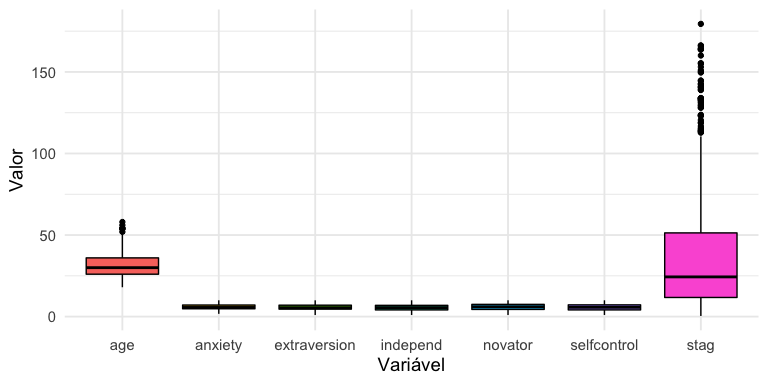
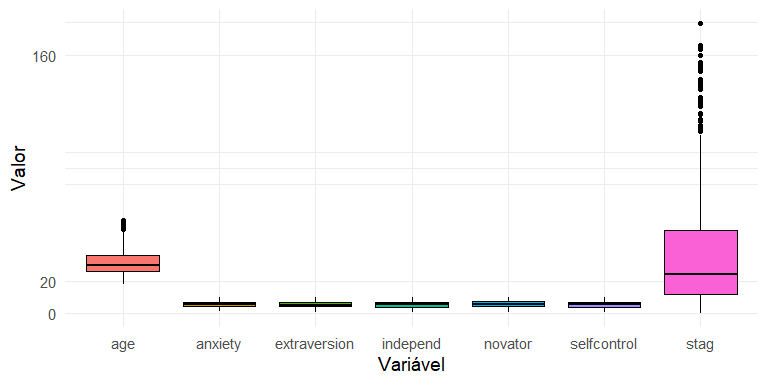
AAAAAAAAAAAAAAAAAAAAAA

diff --git a/turnover_rodrigo/rmd_arquivo.md b/turnover_rodrigo/rmd_arquivo.md
@@ -832,22 +832,22 @@ dados %>%
 
     ## Rows: 1,129
     ## Columns: 16
-    ## $ stag         <dbl> 7.030801, 22.965092, 15.934292, 15.934292, 8.410678, 8.9…
-    ## $ event        <int> 1, 1, 1, 1, 1, 1, 1, 1, 1, 1, 1, 1, 1, 1, 1, 1, 1, 1, 1,…
-    ## $ gender       <chr> "m", "m", "f", "f", "m", "f", "f", "f", "f", "f", "f", "…
-    ## $ age          <dbl> 35, 33, 35, 35, 32, 42, 42, 28, 29, 30, 40, 23, 22, 24, …
-    ## $ industry     <chr> "Banks", "Banks", "PowerGeneration", "PowerGeneration", …
-    ## $ profession   <chr> "HR", "HR", "HR", "HR", "Commercial", "HR", "HR", "HR", …
-    ## $ traffic      <chr> "rabrecNErab", "empjs", "rabrecNErab", "rabrecNErab", "y…
-    ## $ coach        <chr> "no", "no", "no", "no", "yes", "yes", "yes", "no", "no",…
-    ## $ head_gender  <chr> "f", "m", "m", "m", "f", "m", "m", "m", "f", "m", "m", "…
-    ## $ greywage     <chr> "white", "white", "white", "white", "white", "white", "w…
-    ## $ way          <chr> "bus", "bus", "bus", "bus", "bus", "bus", "bus", "bus", …
-    ## $ extraversion <dbl> 6.2, 6.2, 6.2, 5.4, 3.0, 6.2, 6.2, 3.8, 8.6, 5.4, 8.6, 3…
-    ## $ independ     <dbl> 4.1, 4.1, 6.2, 7.6, 4.1, 6.2, 6.2, 5.5, 6.9, 5.5, 4.1, 6…
-    ## $ selfcontrol  <dbl> 5.7, 5.7, 2.6, 4.9, 8.0, 4.1, 4.1, 8.0, 2.6, 3.3, 1.8, 4…
-    ## $ anxiety      <dbl> 7.1, 7.1, 4.8, 2.5, 7.1, 5.6, 5.6, 4.0, 4.0, 7.9, 7.1, 4…
-    ## $ novator      <dbl> 8.3, 8.3, 8.3, 6.7, 3.7, 6.7, 6.7, 4.4, 7.5, 8.3, 6.7, 7…
+    ## $ stag         <dbl> 7.030801, 22.965092, 15.934292, 15.934292, 8.410678, 8...
+    ## $ event        <int> 1, 1, 1, 1, 1, 1, 1, 1, 1, 1, 1, 1, 1, 1, 1, 1, 1, 1, ...
+    ## $ gender       <chr> "m", "m", "f", "f", "m", "f", "f", "f", "f", "f", "f",...
+    ## $ age          <dbl> 35, 33, 35, 35, 32, 42, 42, 28, 29, 30, 40, 23, 22, 24...
+    ## $ industry     <chr> "Banks", "Banks", "PowerGeneration", "PowerGeneration"...
+    ## $ profession   <chr> "HR", "HR", "HR", "HR", "Commercial", "HR", "HR", "HR"...
+    ## $ traffic      <chr> "rabrecNErab", "empjs", "rabrecNErab", "rabrecNErab", ...
+    ## $ coach        <chr> "no", "no", "no", "no", "yes", "yes", "yes", "no", "no...
+    ## $ head_gender  <chr> "f", "m", "m", "m", "f", "m", "m", "m", "f", "m", "m",...
+    ## $ greywage     <chr> "white", "white", "white", "white", "white", "white", ...
+    ## $ way          <chr> "bus", "bus", "bus", "bus", "bus", "bus", "bus", "bus"...
+    ## $ extraversion <dbl> 6.2, 6.2, 6.2, 5.4, 3.0, 6.2, 6.2, 3.8, 8.6, 5.4, 8.6,...
+    ## $ independ     <dbl> 4.1, 4.1, 6.2, 7.6, 4.1, 6.2, 6.2, 5.5, 6.9, 5.5, 4.1,...
+    ## $ selfcontrol  <dbl> 5.7, 5.7, 2.6, 4.9, 8.0, 4.1, 4.1, 8.0, 2.6, 3.3, 1.8,...
+    ## $ anxiety      <dbl> 7.1, 7.1, 4.8, 2.5, 7.1, 5.6, 5.6, 4.0, 4.0, 7.9, 7.1,...
+    ## $ novator      <dbl> 8.3, 8.3, 8.3, 6.7, 3.7, 6.7, 6.7, 4.4, 7.5, 8.3, 6.7,...
 
 ## 5\. EDA
 
@@ -880,6 +880,7 @@ dados %>%
   ggplot(data = ., aes(x = variavel, y = valor, fill = variavel)) +
   geom_boxplot(colour = "black") +
   theme(legend.position = "null") +
+  scale_y_continuous(breaks = c(0, 160, 20)) +
   labs(x = "Variável", y = "Valor")
 ```
 
@@ -937,9 +938,10 @@ dados %>%
   pivot_longer(stag:novator, names_to = "variavel", values_to = "valor") %>% 
   ggplot(data = ., aes(x = variavel, y = valor, fill = variavel)) +
   geom_boxplot(colour = "black") +
-  facet_wrap(~ event) + 
+  facet_wrap(~ event) +
   theme(legend.position = "null") +
-  labs(x = "Variável", y = "Valor")
+  labs(x = "Variável", y = "Valor") +
+  coord_flip()
 ```
 
 <img src="rmd_arquivo_files/figure-gfm/unnamed-chunk-5-1.png" style="display: block; margin: auto;" />
@@ -979,6 +981,313 @@ cowplot::plot_grid(plotlist = all_plots2, nrow = 4)
 
 <img src="rmd_arquivo_files/figure-gfm/unnamed-chunk-6-1.png" style="display: block; margin: auto;" />
 
-## 6\. Modelagem
+``` r
+dados %>% 
+  select(extraversion:novator) %>% 
+  rownames_to_column(var = "ID") %>% 
+  pivot_longer(extraversion:novator, names_to = "variavel", values_to = "valor") %>% 
+  group_by(ID) %>% 
+  mutate(the_rank  = rank(-valor, ties.method = "random")) %>%
+  filter(the_rank %in% c(1, 2, 3)) %>% 
+  select(-the_rank) %>% 
+  pivot_wider(names_from = variavel, values_from = valor)
+```
 
-## 7\. Predição
+    ## # A tibble: 1,129 x 6
+    ## # Groups:   ID [1,129]
+    ##    ID    extraversion anxiety novator independ selfcontrol
+    ##    <chr>        <dbl>   <dbl>   <dbl>    <dbl>       <dbl>
+    ##  1 1              6.2     7.1     8.3     NA            NA
+    ##  2 2              6.2     7.1     8.3     NA            NA
+    ##  3 3              6.2    NA       8.3      6.2          NA
+    ##  4 4              5.4    NA       6.7      7.6          NA
+    ##  5 5             NA       7.1    NA        4.1           8
+    ##  6 6              6.2    NA       6.7      6.2          NA
+    ##  7 7              6.2    NA       6.7      6.2          NA
+    ##  8 8             NA      NA       4.4      5.5           8
+    ##  9 9              8.6    NA       7.5      6.9          NA
+    ## 10 10            NA       7.9     8.3      5.5          NA
+    ## # ... with 1,119 more rows
+
+``` r
+#----- AQUI É O IMPORTANTE
+
+
+
+which_nth_highest_richie <- function(x, n){
+  
+  for(i in seq_len(n - 1L)) x[x == max(x)] <- -Inf
+  which(x == max(x))
+  
+}
+
+
+df_tops <- 
+  dados %>% 
+  select(extraversion:novator) %>% 
+  rownames_to_column("row") %>% 
+  mutate(top1 = apply(.[2:6], 1, function(x) names(x)[which_nth_highest_richie(x = x, n = 1)]),
+         top2 = apply(.[2:6], 1, function(x) names(x)[which_nth_highest_richie(x = x, n = 2)])) %>% 
+  unnest(cols = c(top1, top2)) %>% 
+  distinct(row, .keep_all = TRUE)
+
+
+
+#---- TOP1 POR INDIVÍDUO
+
+dados <- 
+  dados %>% 
+  bind_cols(df_tops %>% select(top1, top2))
+  
+  
+dados %>% 
+  filter(event == 0) %>% 
+  count(event, top1, sort = TRUE) %>% 
+  ggplot(data = , aes(x = reorder(top1, n), y = n)) +
+  geom_bar(stat = "identity", colour = "black", fill = "#70B7B3")
+```
+
+<img src="rmd_arquivo_files/figure-gfm/unnamed-chunk-7-1.png" style="display: block; margin: auto;" />
+
+``` r
+#--- TOP1 POR INDUSTRIA
+
+
+
+df_industria_tops <- 
+  dados %>% 
+  filter(event == 0) %>% 
+  group_by(industry) %>% 
+  summarise(extraversion = mean(extraversion, na.rm = TRUE),
+            independ = mean(independ, na.rm = TRUE),
+            selfcontrol = mean(selfcontrol, na.rm = TRUE),
+            anxiety = mean(anxiety, na.rm = TRUE),
+            novator = mean(novator, na.rm = TRUE)) %>% 
+  ungroup %>% 
+  rownames_to_column("row") %>%
+  mutate(top1_ind = apply(.[3:6], 1, 
+                      function(x) names(x)[which_nth_highest_richie(x = x, n = 1)]),
+         top2_ind = apply(.[3:6], 1, 
+                      function(x)          names(x)[which_nth_highest_richie(x = x, n = 2)]),
+         top3_ind = apply(.[3:6], 1, 
+                      function(x)          names(x)[which_nth_highest_richie(x = x, n = 3)])) %>% 
+  unnest(cols = c(top1_ind, top2_ind, top3_ind)) %>% 
+  distinct(row, .keep_all = TRUE)
+
+
+
+df_score <- 
+  dados %>% 
+  inner_join(df_industria_tops %>% select(industry, top1_ind, top2_ind, top3_ind), by = "industry")
+  
+
+df_score %>% 
+  count(traffic, top1, top2, top1_ind, top2_ind, top3_ind, sort = TRUE) %>% 
+  View
+```
+
+``` r
+df_score %>%
+  mutate(col1 = ifelse(top1 == top1_ind, 1, 0),
+         col2 = ifelse(top1 == top2_ind, 1, 0),
+         col3 = ifelse(top1 == top3_ind, 1, 0),
+         col4 = ifelse(top2 == top1_ind, 1, 0),
+         col5 = ifelse(top2 == top2_ind, 1, 0),
+         col6 = ifelse(top2 == top3_ind, 1, 0),
+         score = col1 + col2 + col3 + col4 + col5 + col6) %>% 
+  group_by(traffic) %>% 
+  summarise(score = sum(score)) %>% 
+  arrange(-score) %>% 
+  ggplot(data = , aes(x = reorder(traffic, score), y = score)) +
+  geom_bar(stat = "identity", colour = "black", fill = "#70B7B3") +
+  labs(title = "Score de quem mais acerta por plataforma")
+```
+
+<img src="rmd_arquivo_files/figure-gfm/unnamed-chunk-8-1.png" style="display: block; margin: auto;" />
+
+``` r
+df_industria_tops %>% 
+  filter(industry %in% c("Banks", "manufacture", "IT", "Consult", "State")) %>% 
+  select(industry, top1_ind: top3_ind) %>% 
+  knitr::kable()
+```
+
+<table>
+
+<thead>
+
+<tr>
+
+<th style="text-align:left;">
+
+industry
+
+</th>
+
+<th style="text-align:left;">
+
+top1\_ind
+
+</th>
+
+<th style="text-align:left;">
+
+top2\_ind
+
+</th>
+
+<th style="text-align:left;">
+
+top3\_ind
+
+</th>
+
+</tr>
+
+</thead>
+
+<tbody>
+
+<tr>
+
+<td style="text-align:left;">
+
+Banks
+
+</td>
+
+<td style="text-align:left;">
+
+independ
+
+</td>
+
+<td style="text-align:left;">
+
+anxiety
+
+</td>
+
+<td style="text-align:left;">
+
+extraversion
+
+</td>
+
+</tr>
+
+<tr>
+
+<td style="text-align:left;">
+
+Consult
+
+</td>
+
+<td style="text-align:left;">
+
+anxiety
+
+</td>
+
+<td style="text-align:left;">
+
+independ
+
+</td>
+
+<td style="text-align:left;">
+
+extraversion
+
+</td>
+
+</tr>
+
+<tr>
+
+<td style="text-align:left;">
+
+IT
+
+</td>
+
+<td style="text-align:left;">
+
+anxiety
+
+</td>
+
+<td style="text-align:left;">
+
+extraversion
+
+</td>
+
+<td style="text-align:left;">
+
+independ
+
+</td>
+
+</tr>
+
+<tr>
+
+<td style="text-align:left;">
+
+manufacture
+
+</td>
+
+<td style="text-align:left;">
+
+selfcontrol
+
+</td>
+
+<td style="text-align:left;">
+
+anxiety
+
+</td>
+
+<td style="text-align:left;">
+
+extraversion
+
+</td>
+
+</tr>
+
+<tr>
+
+<td style="text-align:left;">
+
+State
+
+</td>
+
+<td style="text-align:left;">
+
+anxiety
+
+</td>
+
+<td style="text-align:left;">
+
+independ
+
+</td>
+
+<td style="text-align:left;">
+
+extraversion
+
+</td>
+
+</tr>
+
+</tbody>
+
+</table>
